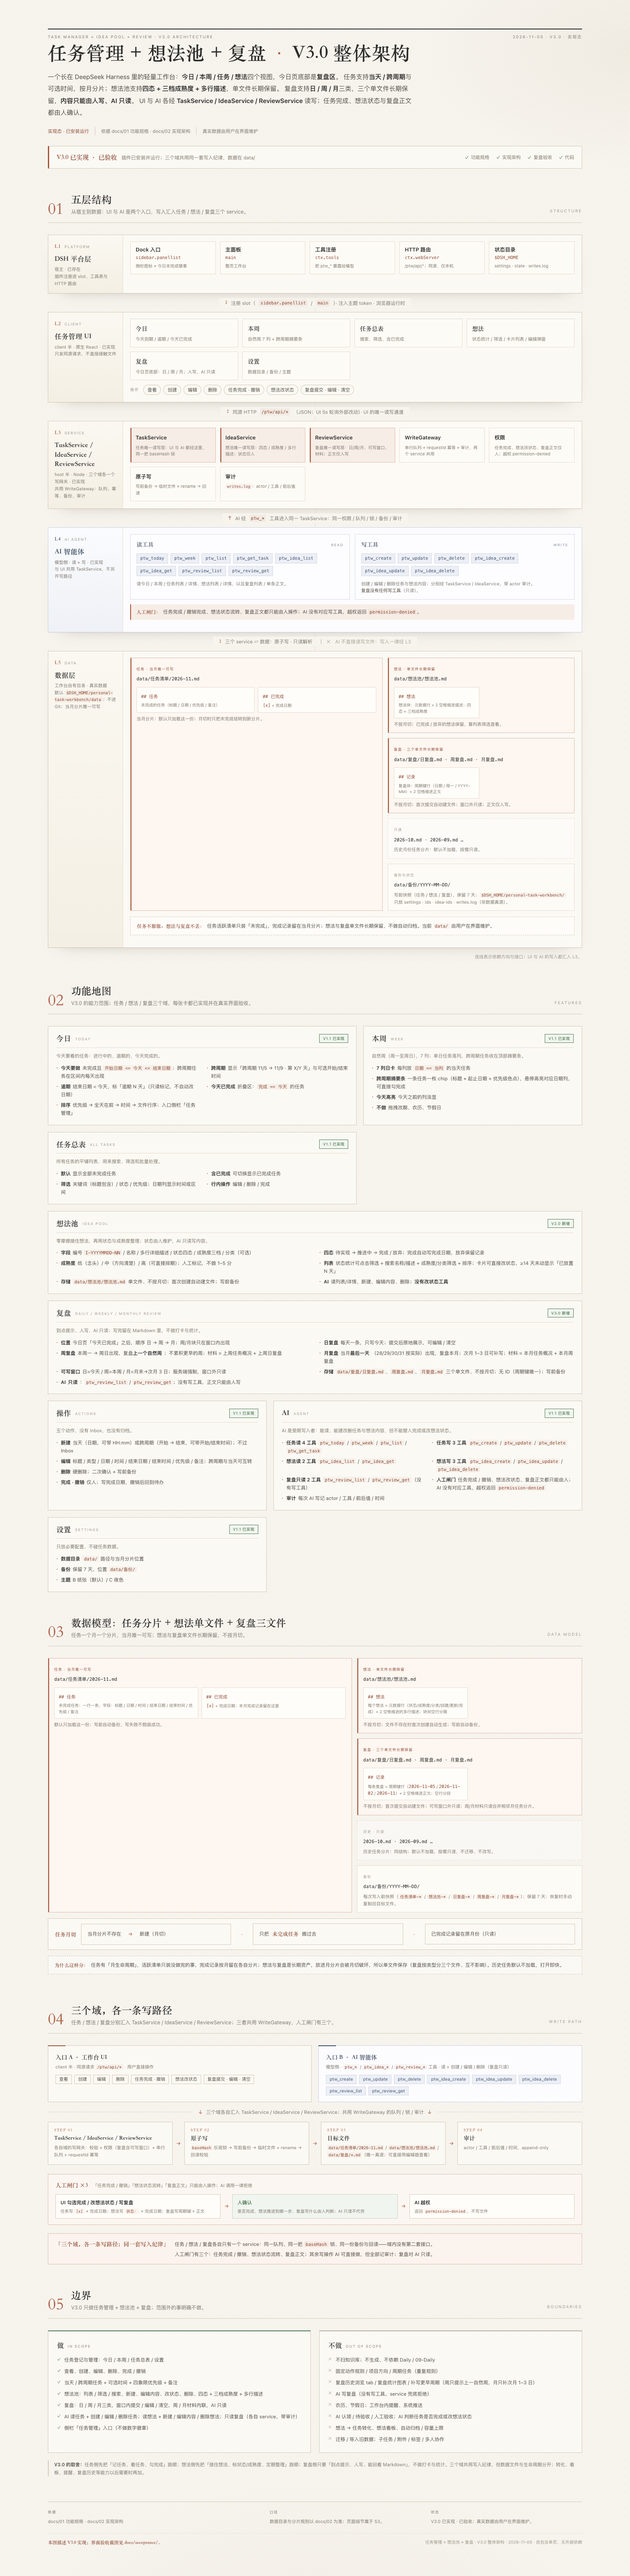
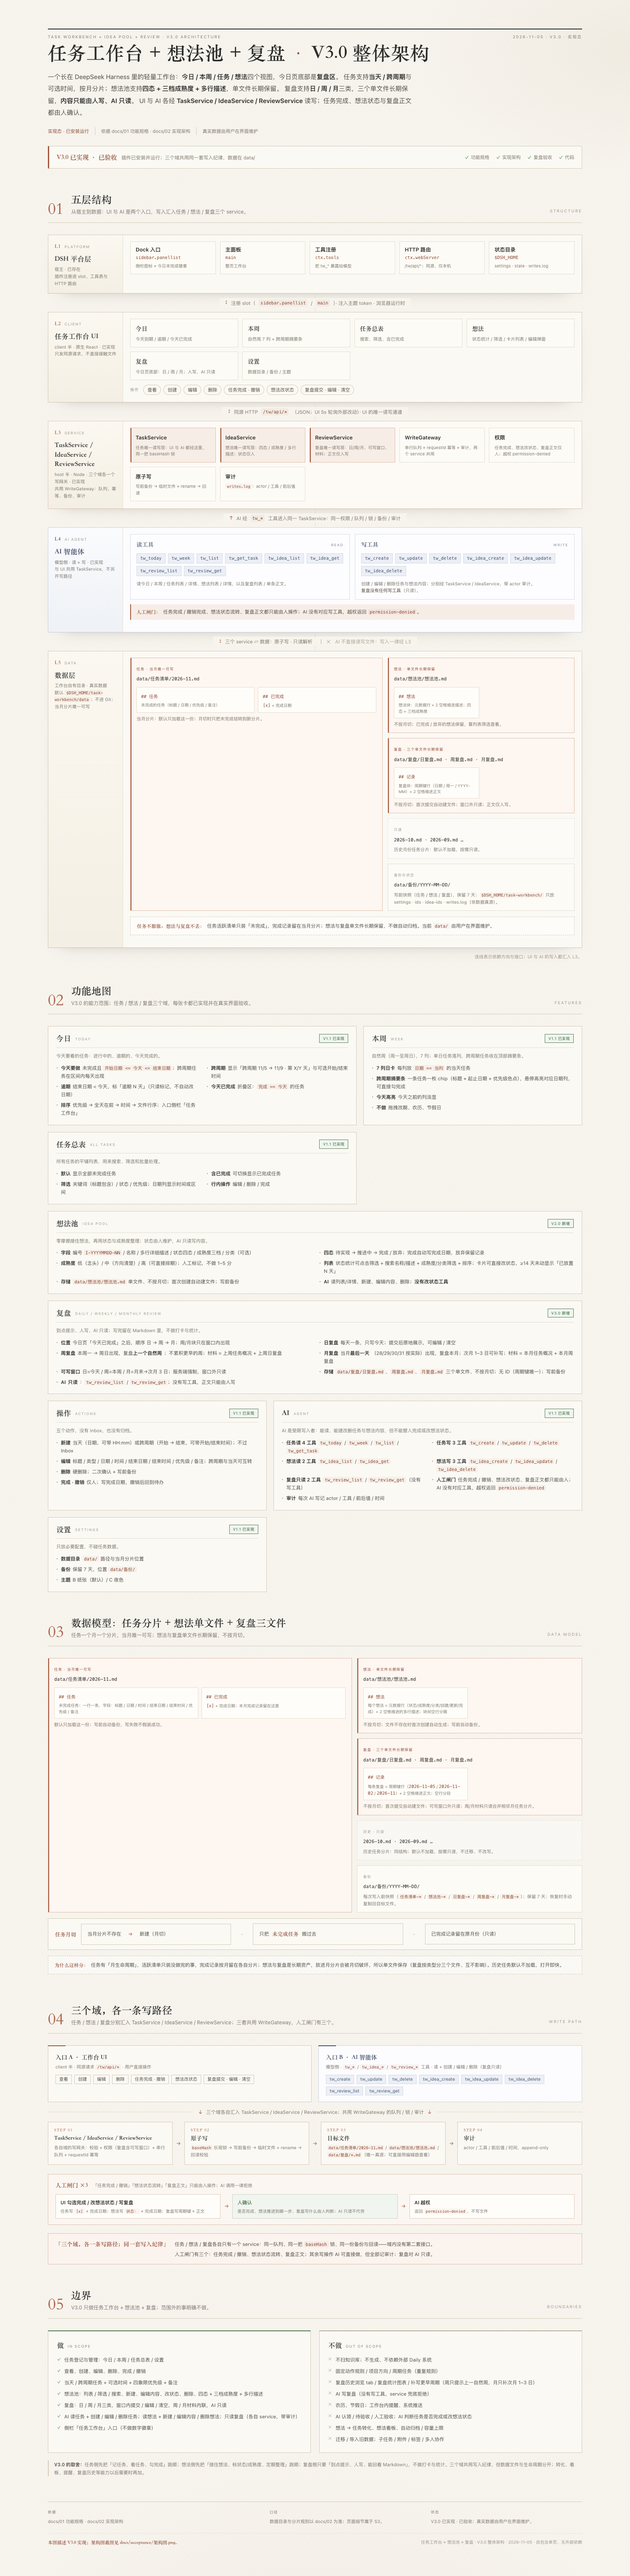
docs: 修正发布资料过期信息（市场 PR/旧包状态/Release 版本）并重渲染架构图（ptw_* → tw_*）

Changed region(s): [[0.5213, 0.0, 0.644, 0.0312], [0.2453, 0.0, 0.3373, 0.0312], [0.1533, 0.0, 0.2147, 0.0312]]

diff --git a/docs/04-发布与更新.md b/docs/04-发布与更新.md
@@ -114,7 +114,7 @@ gh release create v0.3.1 dsh-task-workbench-0.3.1.tgz \
 rm -f *.tgz
 ```
 
-Release 是给不用 npm 的人准备的兜底安装包；市场条目的 `tarball:` 字段当前指向 v0.3.0，**建议每次发版顺手改成最新版**（否则从市场走的兜底安装会停在旧版）；npm 主路径不受影响。
+Release 是给不用 npm 的人准备的兜底安装包；市场条目（PR #12498 里）的 `tarball:` 字段当前指向 v0.4.0，**建议每次发版顺手改成最新版**（否则从市场走的兜底安装会停在旧版）；npm 主路径不受影响。
 
 ### 2.6 市场要不要动？
 
@@ -148,8 +148,8 @@ Release 是给不用 npm 的人准备的兜底安装包；市场条目的 `tarba
 
 - 市场条目（在别人仓库里，改它需要 PR）：
   `awesome-dsh-plugin/awesome-dsh-plugin` → `data/plugins/Zevin-Labs__task-workbench.yml`
-- 已提交的 PR：https://github.com/awesome-dsh-plugin/awesome-dsh-plugin/pull/12471
-- 改名前发布过 `v0.3.0`（旧包 `dsh-personal-task-workbench`，已标记 deprecated）；改名后 `v0.5.0`（工具前缀改名，待推送发布）。
+- 市场 PR：https://github.com/awesome-dsh-plugin/awesome-dsh-plugin/pull/12498（改名后重新提交；旧 PR #12471 已关闭。新仓满 24h 后 gate 会自动变绿，无需重开）
+- 改名前发布过 `v0.3.0`（旧包 `dsh-personal-task-workbench`；**npm 不能改名**，尚未标记 deprecated，发 `0.5.0` 时补一次 `npm deprecate` 指向新包）；改名后 `v0.5.0`（工具前缀改名，本地已提交，待推送发布）。
 - npm 账号：`zevin-labs`（2FA：passkey）
 - GitHub 组织：`Zevin-Labs`；旧私有仓归档在 `zhuzw1990/personal-task-workbench-archive`
 

diff --git a/docs/README.md b/docs/README.md
@@ -9,7 +9,7 @@ updated: 2026-11-06
 # 文档索引 · V3.0
 
 > 当前状态：**V3.0 已实现、已安装、已真实 GUI 验收**（2026-11-05）；**2026-11-06 已开源到 GitHub（`Zevin-Labs/task-workbench`）；当前版本 `0.5.0`（改名 + 工具前缀改为 `tw_*`），npm 发布与 `v0.5.0` Release 待执行**。
-> 仓库：https://github.com/Zevin-Labs/task-workbench · npm：`dsh-task-workbench`（待发布） · Release：v0.3.0（历史，含 tgz）。
+> 仓库：https://github.com/Zevin-Labs/task-workbench · npm：`dsh-task-workbench`（待发布） · Release：v0.4.0（含 tgz；v0.3.0 为历史版本）。
 > V3.0 变化：今日页底部新增**复盘区**（日 / 周 / 月，人写、AI 只读）；新增独立复盘数据域——`ReviewService` 唯一写网关、`/tw/api/reviews*` 路由、`tw_review_list` / `tw_review_get` 只读 AI 工具。
 > 数据真源：`data/任务清单/YYYY-MM.md`（任务，按月分片）+ `data/想法池/想法池.md`（想法，单文件长期保留）+ `data/复盘/{日,周,月}复盘.md`（复盘，三个单文件、不按月切）；默认数据根 `$DSH_HOME/task-workbench/data`；均不进 Git。
 > 不扫描任何知识库或外部 Daily 系统，不导入旧数据。
